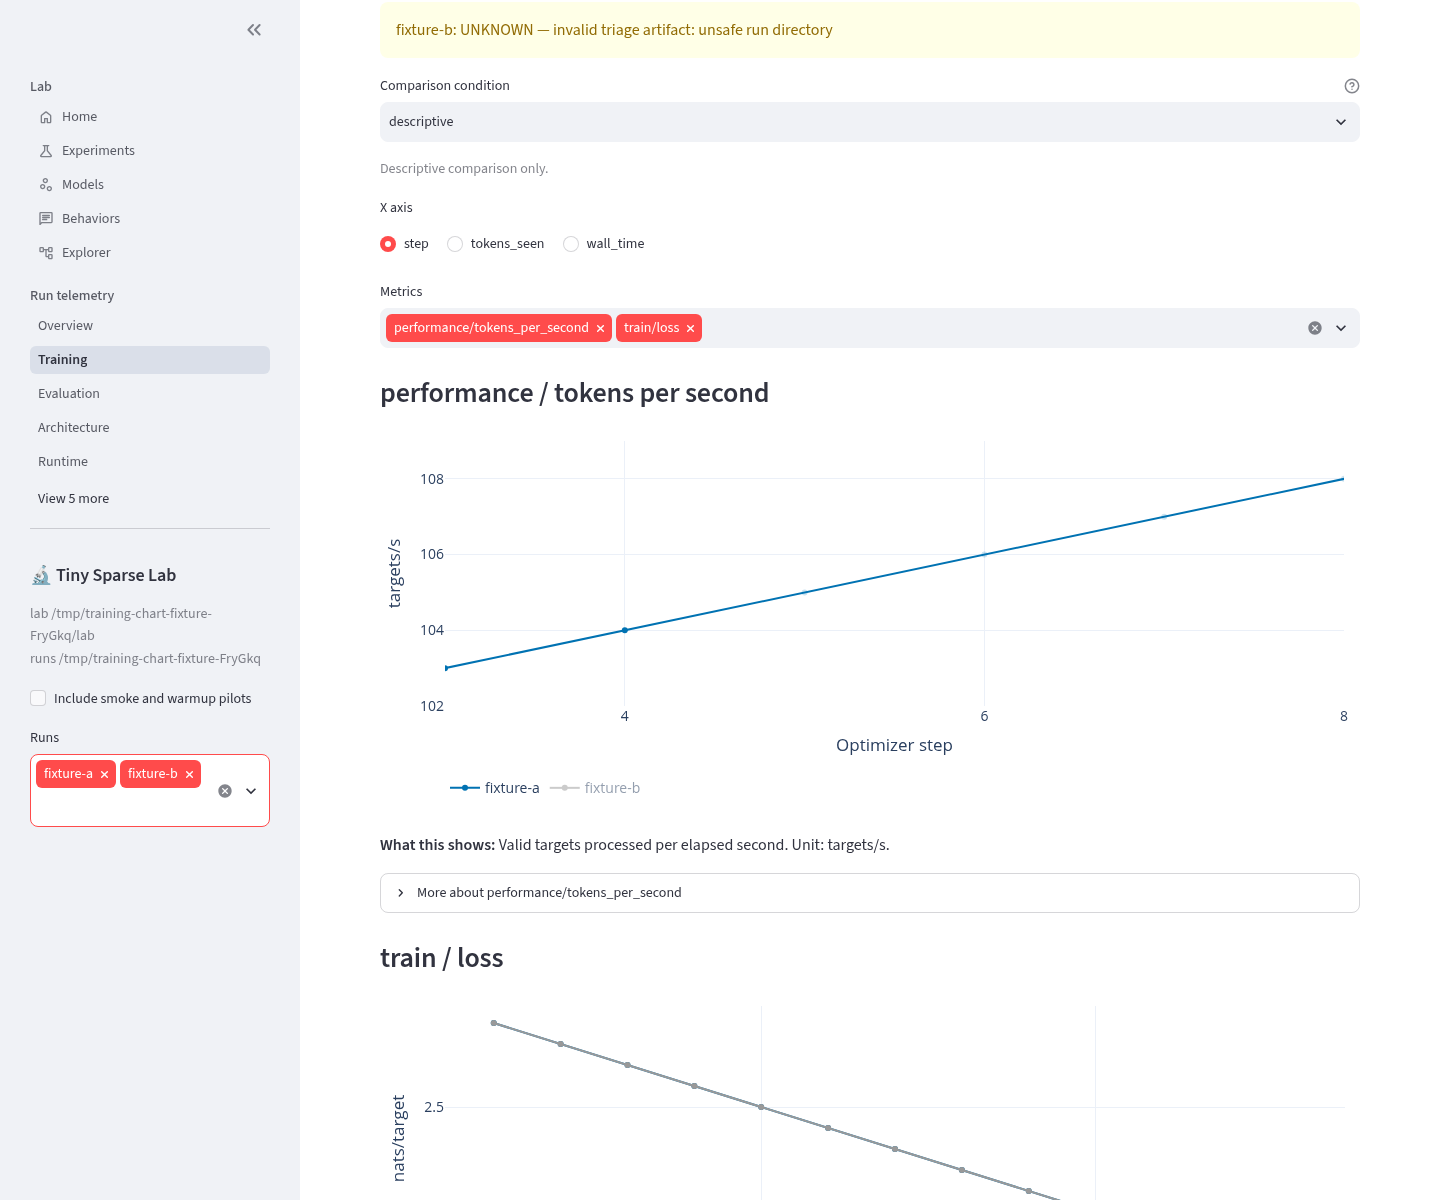
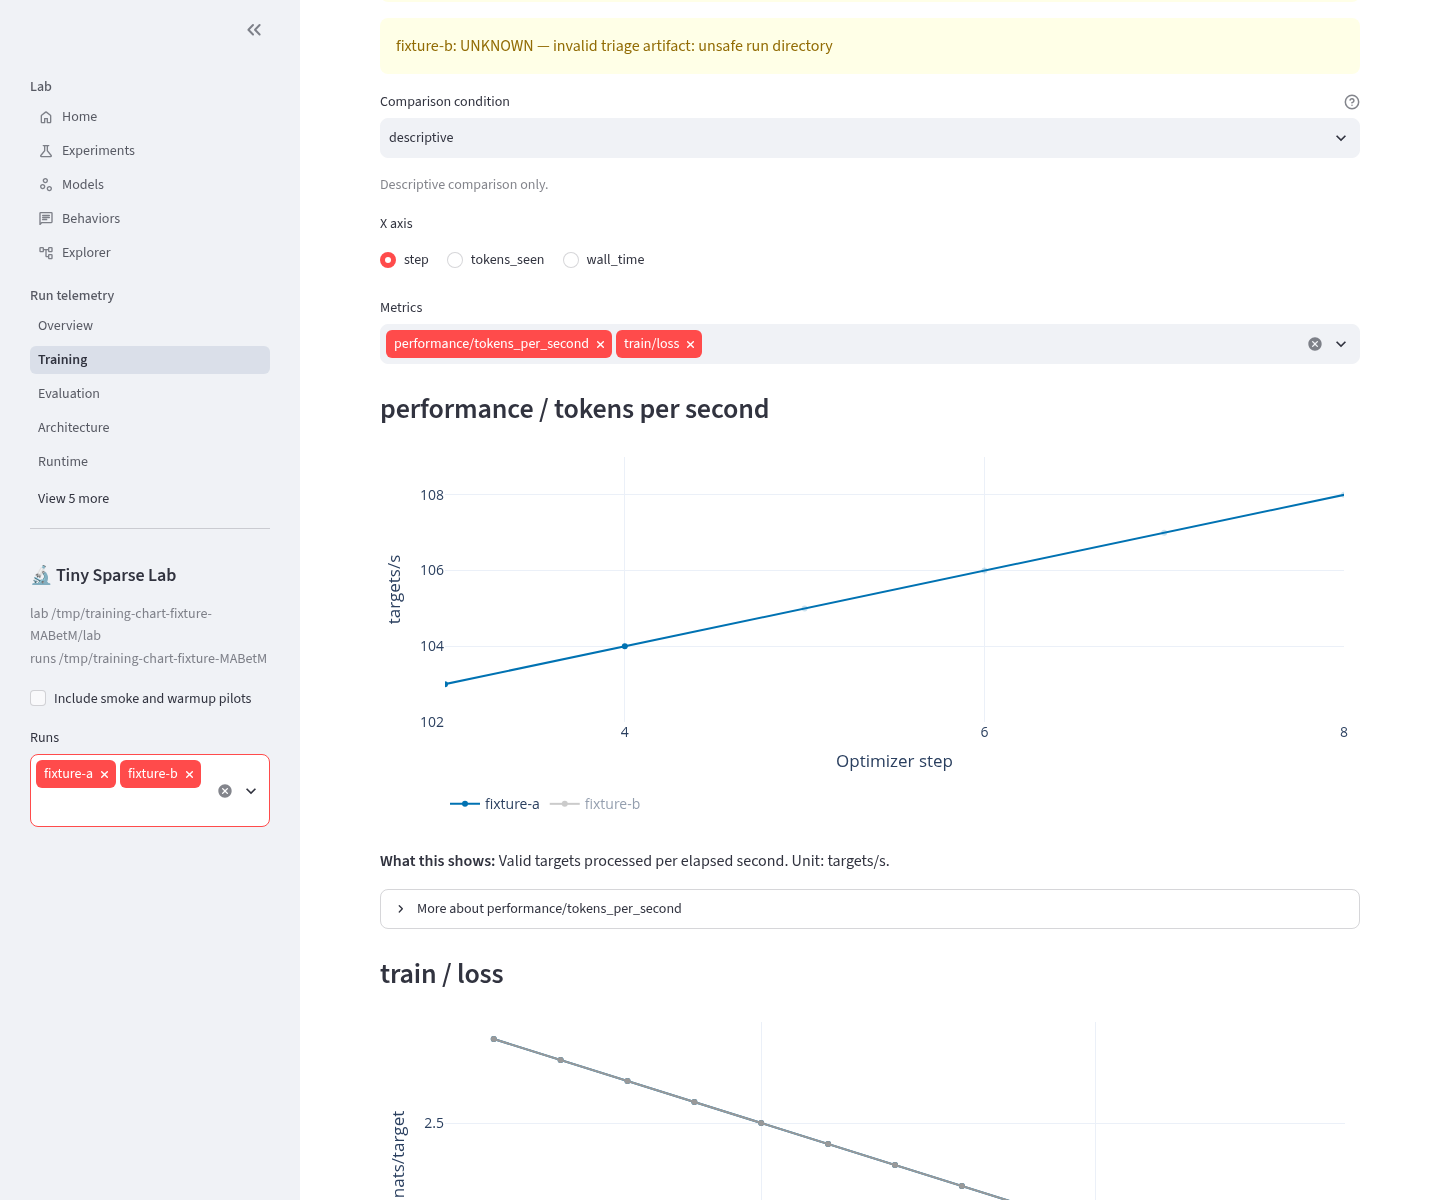
Load Plotly once outside live chart refreshes

diff --git a/src/sparselab/dashboard/training_charts.js b/src/sparselab/dashboard/training_charts.js
@@ -7,11 +7,17 @@ export default function({parentElement, data}) {
         plot.style.width = '100%';
         parentElement.appendChild(plot);
     }
-    if (plot.dataset.spec !== data) {
-        plot.dataset.spec = data;
+    if (plot._spec !== data) {
+        plot._spec = data;
         const figure = JSON.parse(data);
         // Serialize updates: a slow draw must not race the next live snapshot.
-        plot.pending = (plot.pending || Promise.resolve()).then(() => {
+        plot.pending = (plot.pending || Promise.resolve()).then(async () => {
+            if (!window.Plotly) {
+                await new Promise(resolve => window.addEventListener(
+                    'sparselab-plotly-ready', resolve, {once: true}
+                ));
+            }
+            if (!plot.isConnected) return;
             if (plot.layout?.uirevision === figure.layout.uirevision) {
                 const previous = new Map(plot.data.map(trace => [trace.uid, trace]));
                 for (const trace of figure.data) {
@@ -24,6 +30,19 @@ export default function({parentElement, data}) {
             return window.Plotly.react(plot, figure.data, figure.layout, {
                 responsive: false, displaylogo: false, scrollZoom: false
             });
+        }).catch(error => {
+            console.error('Training chart update failed', error);
+            if (plot._spec === data) delete plot._spec;
+            let message = parentElement.querySelector('[role="alert"]');
+            if (!message) {
+                message = document.createElement('p');
+                message.setAttribute('role', 'alert');
+                parentElement.appendChild(message);
+            }
+            message.textContent = 'Chart update failed; waiting for the next data update.';
+        });
+        plot.pending.then(() => {
+            if (plot._spec === data) parentElement.querySelector('[role="alert"]')?.remove();
         });
     }
     const observer = new ResizeObserver(() => {

diff --git a/tests/test_dashboard_training_charts.py b/tests/test_dashboard_training_charts.py
@@ -8,6 +8,18 @@ from streamlit.testing.v1 import AppTest
 from sparselab.dashboard.training_charts import AXES, figure
 
 
+@pytest.fixture(autouse=True)
+def isolated_component_registry():
+    # AppTest creates a fresh Streamlit runtime/registry per test.
+    from sparselab.dashboard.training_charts import _component, _loader
+
+    _component.cache_clear()
+    _loader.cache_clear()
+    yield
+    _component.cache_clear()
+    _loader.cache_clear()
+
+
 def points():
     return [
         {
@@ -71,6 +83,7 @@ def test_component_identity_survives_appended_and_unchanged_data():
     app = AppTest.from_function(page).run()
     assert not app.exception
     initial = app.get("bidi_component")[0].proto
+    assert len(initial.js_content.encode()) < 64_000
     app.run()
     assert app.get("bidi_component")[0].proto.id == initial.id
     app.session_state["count"] = 4
@@ -79,6 +92,8 @@ def test_component_identity_survives_appended_and_unchanged_data():
     updated = app.get("bidi_component")[0].proto
     assert updated.id == initial.id
     assert updated.json != initial.json
+    assert len(updated.js_content.encode()) < 64_000
+    assert json.loads(json.loads(updated.json))["data"][0]["uid"] == "fixture"
     assert len(json.loads(json.loads(updated.json))["data"][0]["x"]) == 4
     assert "nats/target" in app.markdown[0].value
     assert "no canonical description or unit" in app.markdown[1].value
@@ -89,3 +104,74 @@ def test_series_colors_match_when_a_metric_is_missing_for_one_run():
     only_b = figure(points()[:3], "train/loss", "step", ["run-a", "run-b"])
     assert only_b.data[0].uid == both.data[1].uid == "run-b"
     assert only_b.data[0].line.color == both.data[1].line.color
+
+
+def test_unknown_unit_and_incomplete_color_selector():
+    chart = figure(points(), "custom/unknown", "step", ["run-a"])
+    assert chart.layout.yaxis.title.text == "Recorded value (unit unavailable)"
+    assert len(chart.data) == 2
+
+
+def test_training_page_wires_consistent_colors_and_one_static_loader():
+    def page():
+        import streamlit as st
+
+        from sparselab.dashboard.app import training
+        from sparselab.dashboard.queries import DashboardSnapshot, RunRecord
+        from sparselab.dashboard.training_charts import load_plotly
+
+        load_plotly()
+        st.session_state["selected_runs"] = ["run-a", "run-b"]
+        # No real run directory or checkpoint is needed for this presentation test.
+        records = tuple(
+            RunRecord(
+                run_id=r,
+                name=r,
+                status="running",
+                parent_run_id=None,
+                updated_at="t",
+                config={},
+                metadata={},
+                purpose=None,
+            )
+            for r in ("run-a", "run-b")
+        )
+        rows = tuple(
+            {
+                "run_id": run,
+                "name": metric,
+                "step": 1,
+                "tokens_seen": 32,
+                "wall_time": 2.0,
+                "value": 2.0,
+            }
+            for run, metric in (
+                ("run-a", "train/loss"),
+                ("run-b", "train/loss"),
+                ("run-b", "validation/loss"),
+            )
+        )
+        view = DashboardSnapshot(
+            runs=records,
+            metrics=rows,
+            events=(),
+            stages=(),
+            checkpoints=(),
+            runtime_progress=(),
+            manifests={},
+        )
+        training(view)
+
+    app = AppTest.from_function(page).run()
+    assert not app.exception
+    components = app.get("bidi_component")
+    assert len(components) == 3
+    loader = components[0].proto
+    assert len(loader.js_content) > 1_000_000
+    figures = [json.loads(json.loads(c.proto.json)) for c in components[1:]]
+    assert all(len(c.proto.js_content.encode()) < 64_000 for c in components[1:])
+    assert (
+        figures[0]["data"][1]["line"]["color"] == figures[1]["data"][0]["line"]["color"]
+    )
+    app.run()
+    assert app.get("bidi_component")[0].proto == loader

diff --git a/src/sparselab/dashboard/training_charts.py b/src/sparselab/dashboard/training_charts.py
@@ -32,7 +32,7 @@ def figure(
 ) -> go.Figure:
     spec = metric_spec(name)
     run_ids = sorted({str(point["run_id"]) for point in points})
-    color_order = sorted(selected_ids or run_ids)
+    color_order = sorted(set(selected_ids or ()) | set(run_ids))
     chart = go.Figure()
     for run_id in run_ids:
         rows = [point for point in points if point["run_id"] == run_id]
@@ -76,9 +76,31 @@ def _component():
     script = Path(__file__).with_name("training_charts.js").read_text()
     return st.components.v2.component(
         "training_live_chart",
-        js=get_plotlyjs() + "\n" + script,
+        js=script,
         isolate_styles=False,
     )
+
+
+@lru_cache(maxsize=1)
+def _loader():
+    return st.components.v2.component(
+        "training_plotly_loader",
+        js=get_plotlyjs()
+        + """
+export default function() {
+    window.dispatchEvent(new Event('sparselab-plotly-ready'));
+}
+""",
+    )
+
+
+def load_plotly() -> None:
+    """Load the installed bundle once outside the telemetry refresh fragment.
+
+    This element has no changing data. Its cached message can be reused across
+    full reruns; per-chart and periodic fragment messages contain no bundle.
+    """
+    _loader()(key="training-plotly-loader", height="content")
 
 
 def render(

diff --git a/src/sparselab/dashboard/app.py b/src/sparselab/dashboard/app.py
@@ -937,6 +937,8 @@ def _run_page(root: Path, page: str, surface_dir: Path | None = None) -> None:
     if not (root / "experiments.sqlite3").is_file() and key not in st.session_state:
         st.info("No runs yet. Run `sparselab train CONFIG --run-id NAME`.")
         return
+    if page == "training":
+        training_charts.load_plotly()
     render(root, page, surface_dir)
 
 

diff --git a/docs/validation/training-charts.md b/docs/validation/training-charts.md
@@ -1,6 +1,6 @@
 # Training chart refresh validation
 
-Issue #190, synthetic cloud-workspace validation on 2026-10-18. No connection
+Issue #190, synthetic cloud-workspace validation on 2026-10-18 and 2026-10-19. No connection
 to the owner's training host, training, checkpoint loading or data download.
 
 ## Diagnosis and change
@@ -15,6 +15,10 @@ establishes chart replacement, not a full-page reload, as the reproduced cause.
 
 The training page now uses the existing Streamlit v2 component API and the
 installed Plotly bundle, served locally without a CDN or new dependency.
+A single data-independent loader sits outside the telemetry fragment. The large
+bundle is sent once per page and its unchanged message can be cached on full
+reruns. Per-chart messages contain only the small renderer and figure data;
+periodic fragment updates never include the loader.
 Each metric has a stable component key. Unchanged figure payloads skip plotting;
 changed payloads use `Plotly.react` on the existing node. Stable UI revisions
 preserve zoom, and series UIDs preserve visibility and point selection. Changing
@@ -34,11 +38,19 @@ runs and two metrics. The retained optional browser regression starts its own
 loopback server and SQLite fixture. It checks unchanged cycles, appends three
 points per series, then checks unchanged cycles again.
 
-- **325 samples at 50 ms:** both original chart nodes and SVG frames remained
+- **336 samples at 50 ms:** both original chart nodes and SVG frames remained
   attached; scroll stayed at 700; x zoom stayed `[3, 8]`.
 - Hidden second series and selected point indices `[2, 3]` survived all samples.
   Final y zoom remained `[102, 109]`; data increased from 10 to 13 points.
 - Changing the x axis reset the zoom, as intended. No browser page errors.
+- After review B1, one initial message exceeded 1 MB (the single Plotly loader).
+  Across 248 subsequent refresh WebSocket messages, the largest decoded payload
+  was **11,740 bytes**. This measures message payloads, not compressed wire bytes.
+  The optional test asserts one initial large message and refresh messages below
+  64 KB; Python tests also bound each chart's `js_content` below 64 KB.
+- An injected one-shot `Plotly.react` rejection displayed an error, then the next
+  data update succeeded and cleared it. Failed draws no longer poison the queue.
+  Figure JSON is held in a JS property rather than a DOM attribute.
 - Interaction state is seeded through Plotly's browser API; this is automated
   DOM/state continuity evidence, not a human recording or a claim about every
   possible display-frame artifact. Firefox, Safari, very large histories and
@@ -46,8 +58,10 @@ points per series, then checks unchanged cycles again.
   this component; Plotly zoom, pan, selection and image export remain available.
 
 [Machine-readable refresh summary](assets/training-refresh.json).
-Raw 50 ms samples were retained in the task workspace at
-`/workspace/issue190-final-evidence/refresh.json`.
+The optional browser check writes raw samples to the chosen output directory;
+only the summary is committed. CI covers Python identity/revision, serialized
+UIDs, per-chart payload size and page color wiring; the JavaScript interaction
+checks remain an opt-in browser test.
 
 Desktop, **1440 × 1200**:
 
@@ -74,5 +88,5 @@ node tests/browser/training_live.cjs /tmp/training-chart-evidence
 ```
 
 `PORT` defaults to 8520. The test creates a private synthetic SQLite directory in
-`/tmp`, starts only its own server, and terminates that server on completion.
+`/tmp`, starts only its own server, and terminates that server and removes its private fixture directory on completion.
 Screenshots and the raw sample log go to the requested output directory.
